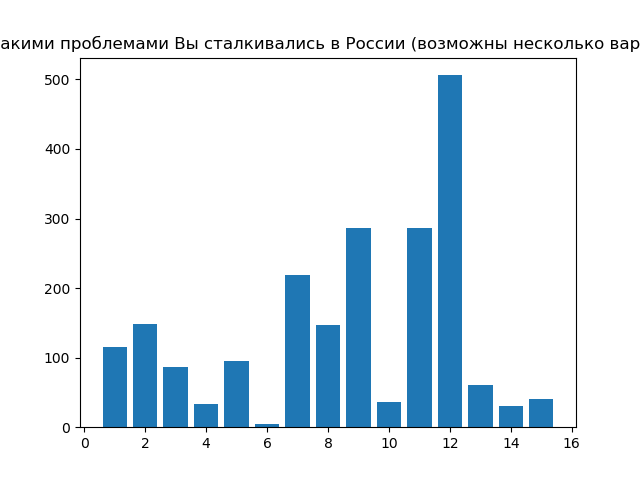
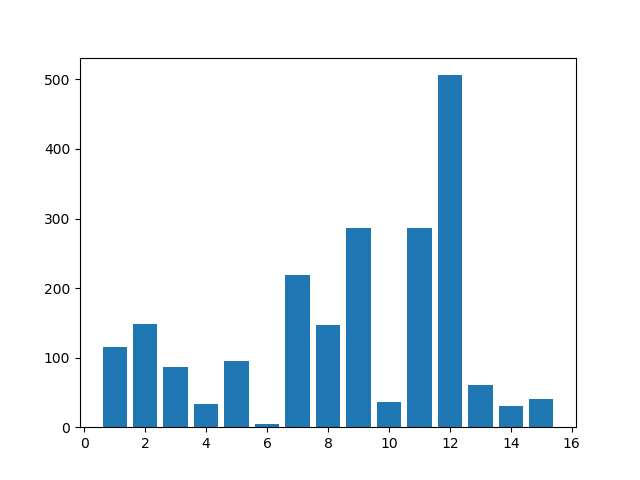
Скрипт построения графиков II
- На многих график отображается нормально легенда

Changed region(s): [[0.0, 0.0625, 1.0, 0.125]]

diff --git a/visualization/visualize.py b/visualization/visualize.py
@@ -4,6 +4,7 @@ import numpy as np
 from openpyxl import load_workbook
 import os
 import sys
+from textwrap import fill
 
 
 if len(sys.argv)==2:
@@ -16,11 +17,7 @@ wb = load_workbook( os.path.join(dirname, "../common/responses" + Postfix + ".xl
 ws = wb.active
 
 
-#a = plt.hist( [cell.value for cell in np.array(ws['E'])][1:] )
-#hist = np.histogram([cell.value for cell in np.array(ws['G'])][1:], bins = [0,1,2,3,4,5] )
-#a = plt.pie( hist[0] )
-#a = plt.pie( hist[0], labels=hist[1][:-1])
-
+# Parse labels
 wd = Document( os.path.join(dirname, "../common/Anketa.docx") )
 questionNumber = 0
 Labels = []
@@ -43,6 +40,10 @@ for paragraph in wd.paragraphs:
         continue
     
 
+# Make plots
+#def buildMyLovelyPie(ws):
+#    # Preparation
+#    fig, ax = plt.subplots(figsize=(6, 8), subplot_kw=dict(aspect="equal", anchor = "N"))
 
 questionNumber = 0
 for Label in Labels:
@@ -65,11 +66,22 @@ for Label in Labels:
             colIndex = questionNumber
         else:
             colIndex = questionNumber + 14
-        fig, ax = plt.subplots(figsize=(6, 3), subplot_kw=dict(aspect="equal"))
+        # Preparation
+        #fig, ax = plt.subplots(ncols = 2, figsize=(6, 3), subplot_kw=dict(aspect="equal"))
+        fig, ax = plt.subplots(figsize=(6, 8), subplot_kw=dict(aspect="equal", anchor = "N"))
+        # Extract data
         column = [cell.value for cell in [column for column in ws.iter_cols(min_col=colIndex, max_col=colIndex)][0]][1:]
-        curChartLabels = Labels[questionNumber-1][1:]
+        curChartLabels = [fill(x, 60) for x in Labels[questionNumber-1][1:]]
+        # Count values
         hist = np.histogram(column, bins = range(0, len(curChartLabels)+1 ) )
-        wedges, texts = ax.pie( hist[0], labels = curChartLabels)           
+        # Extract data and omit zeros
+        hist_data = [x for x in hist[0] if x != 0]
+        hist_labels = [curChartLabels[i] for i, x in enumerate(hist[0]) if x != 0]
+        # Plot 'em all!
+        wedges, texts, autotexts = ax.pie( hist_data, autopct = lambda pct: "{:.1f}%".format(pct), pctdistance = 1.3)
+        ax.legend(wedges, hist_labels,
+                  loc="center",
+                  bbox_to_anchor=(0.5, -0.2))        
     
     elif decision == '911':
         heights = []
@@ -91,8 +103,11 @@ for Label in Labels:
         sys.exit()
 
     # Universal ending
-    curChartTitle = Labels[questionNumber-1][0]
-    ax.set_title(curChartTitle)
+    
+    #### Better be used while creating summary.docx
+    #curChartTitle = Labels[questionNumber-1][0]
+    #ax.set_title(curChartTitle)
+    
     plt.savefig( os.path.join(dirname, "Вопрос "+str(questionNumber)+Postfix+".png") )
     plt.close()
        
